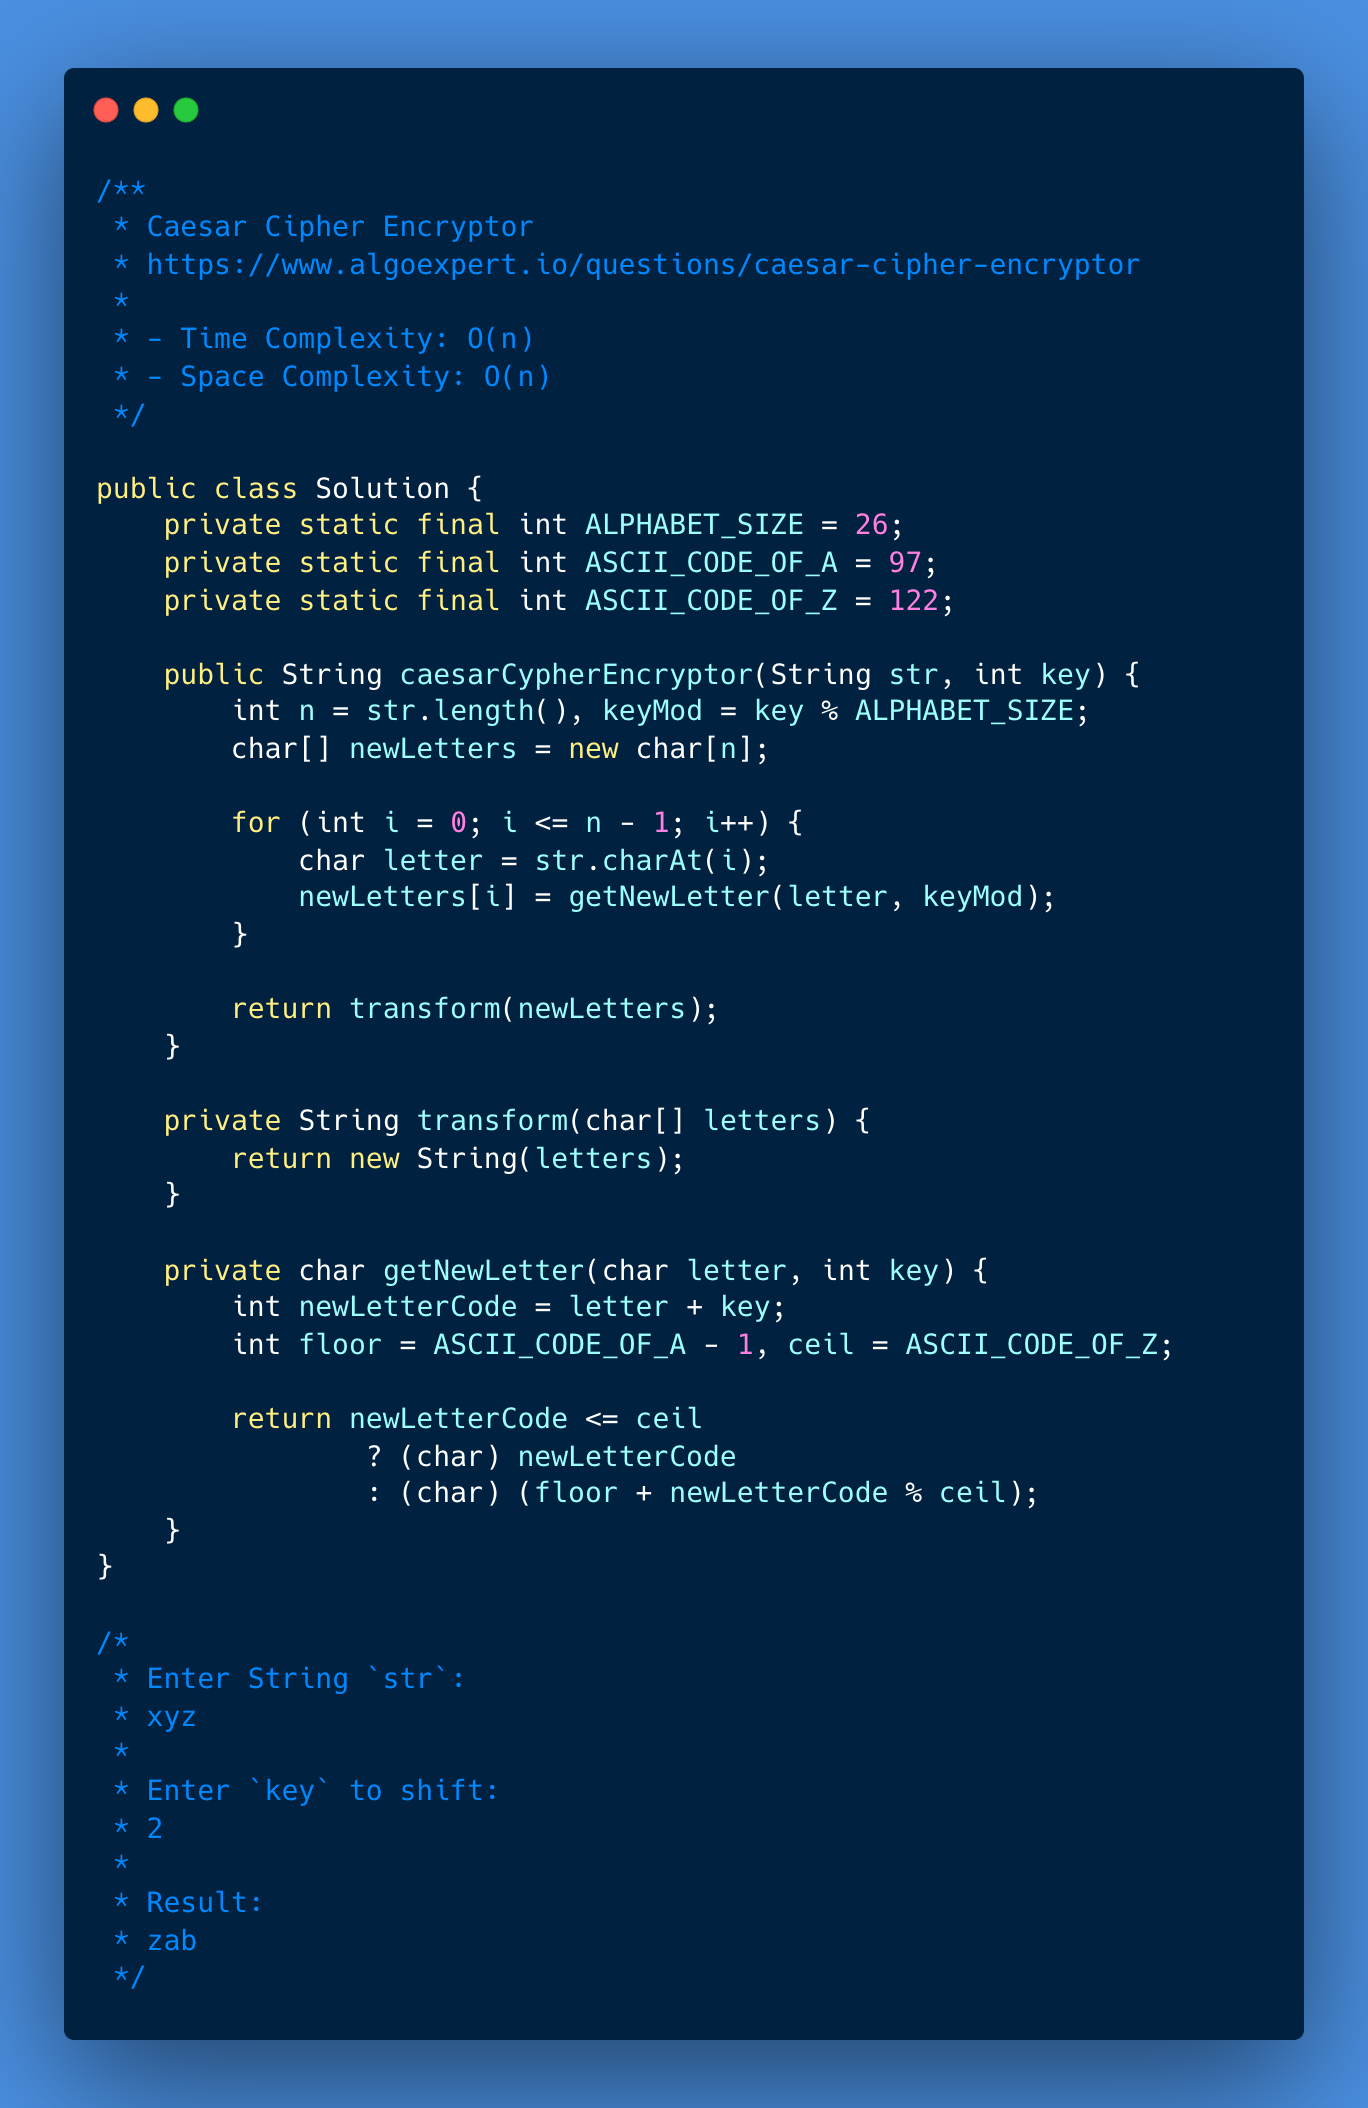
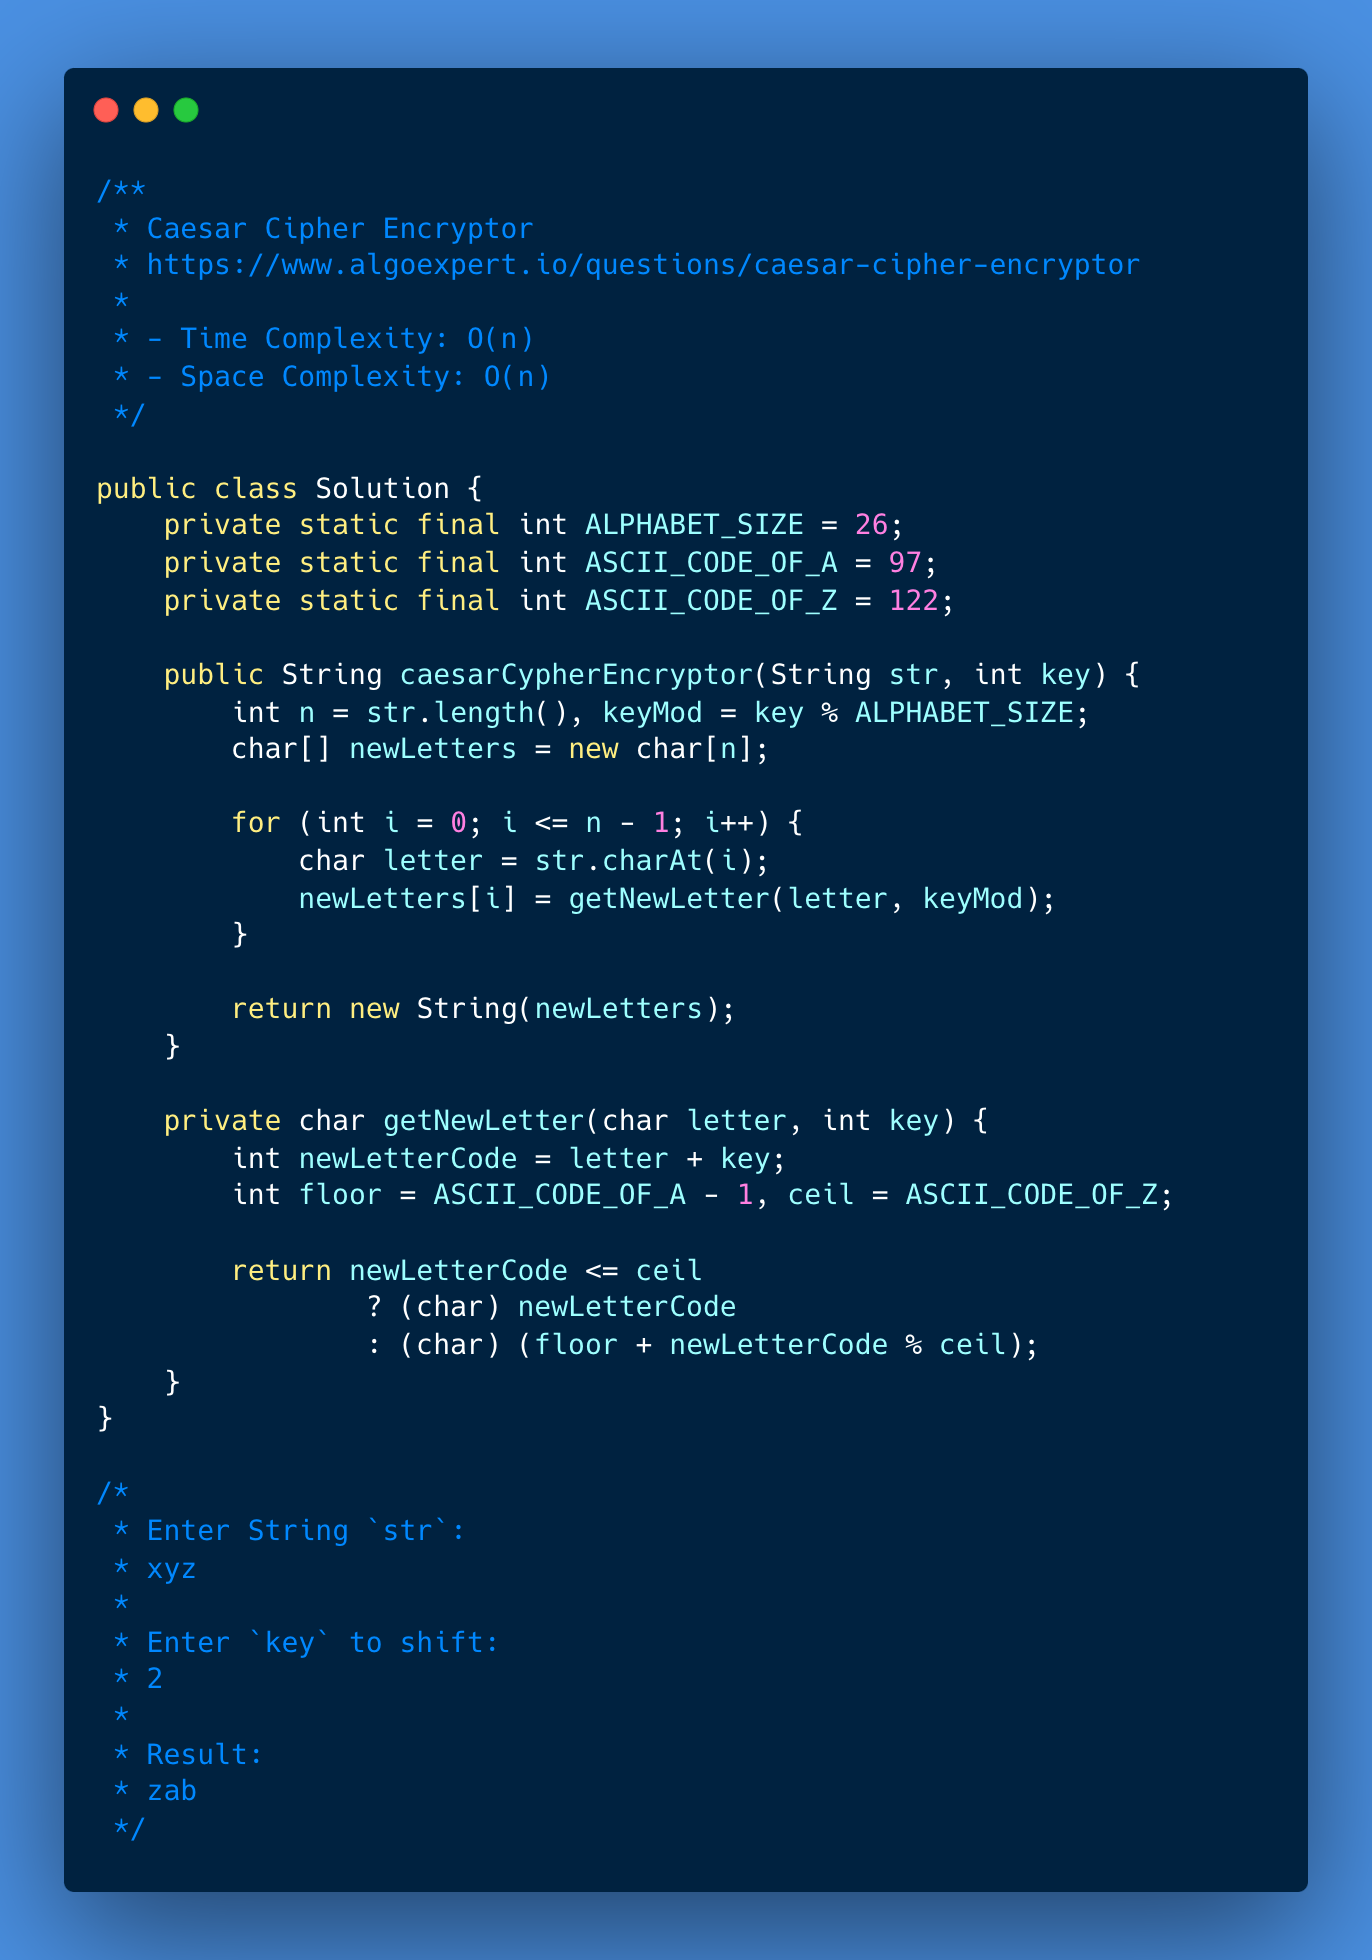
Code Updates and add screenshots

diff --git a/135-caesar-cipher-encryptor/001-solution/Solution.java b/135-caesar-cipher-encryptor/001-solution/Solution.java
@@ -20,11 +20,7 @@ public class Solution {
             newLetters[i] = getNewLetter(letter, keyMod);
         }
 
-        return transform(newLetters);
-    }
-
-    private String transform(char[] letters) {
-        return new String(letters);
+        return new String(newLetters);
     }
 
     private char getNewLetter(char letter, int key) {

diff --git a/135-caesar-cipher-encryptor/002-solution/Solution.java b/135-caesar-cipher-encryptor/002-solution/Solution.java
@@ -19,11 +19,7 @@ public class Solution {
             newLetters[i] = getNewLetter(letter, keyMod);
         }
 
-        return transform(newLetters);
-    }
-
-    private String transform(char[] letters) {
-        return new String(letters);
+        return new String(newLetters);
     }
 
     private char getNewLetter(char letter, int key) {
